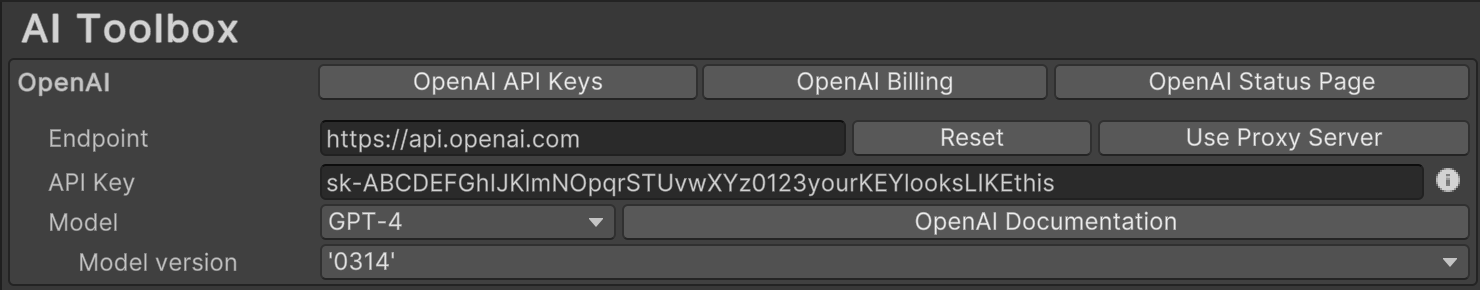
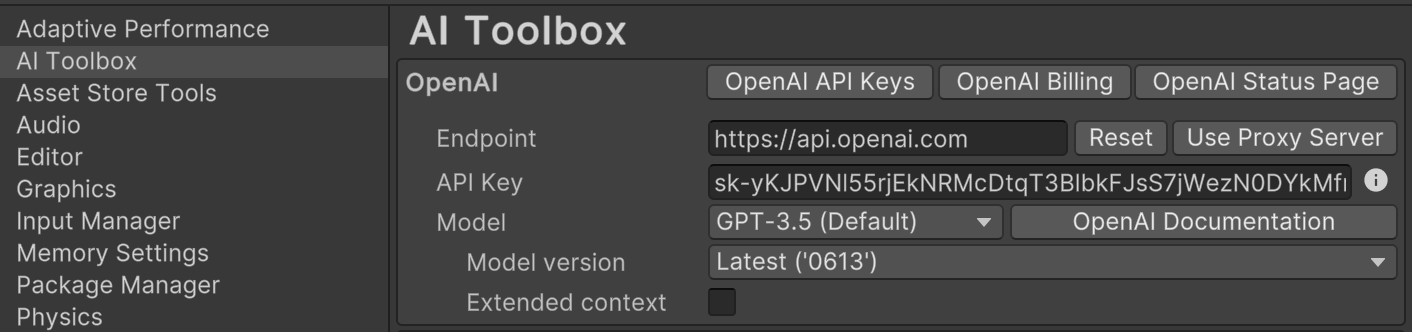
Settings descriptions

diff --git a/_docs/40.getting-started.md b/_docs/40.getting-started.md
@@ -308,15 +308,9 @@ Proxy Server settings and guide
 OpenAI API Key
 
 - **Model** is the GPT model that will be used to generate scripts. Currently, there are two options: _gpt-3.5-turbo_ and _GPT-4_. The default model is _gpt-3.5-turbo_.
-- **Model version** — the version of the model to use. This list is constantly updated with the new versions as they are released.
-- **OpenAI Documentation** opens the [OpenAI documentation](https://platform.openai.com/docs/models){:target="_blank"} in your browser.
+- **Model version** — the version of the model to use. This list is constantly updated with the new versions as they are released. [More on Models here](https://platform.openai.com/docs/models){:target="_blank"}
+- **Extended context** Uses a variant of gpt-3.5-turbo that can work with much longer code. It allows 4 times more context, handling up to 20 pages of text/code in a single request. However, it costs twice as much: $0.003 per 1K input tokens and $0.004 per 1K output tokens.
 
-<a href="/assets/images/manual_images/sg-project-settings-gpt-model.png">
-![GPT Model](/assets/images/manual_images/sg-project-settings-gpt-model.png)
-</a>
-
-{:.image-caption}
-GPT Model
 
 ### Google Bard
 
